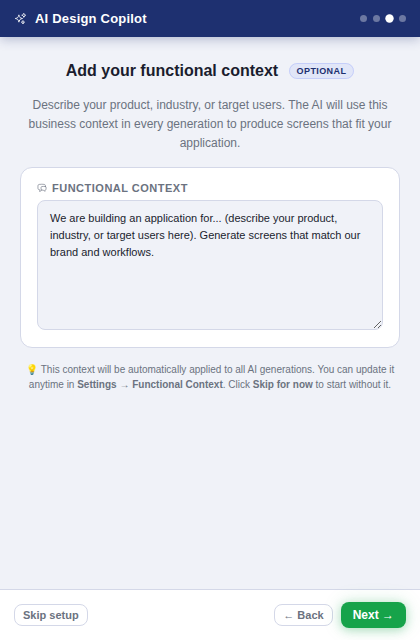
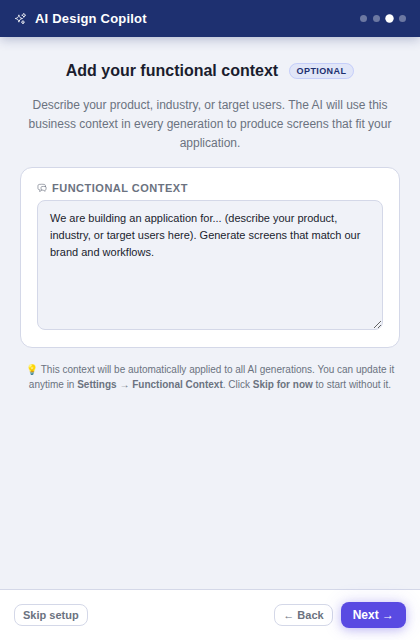
feat: change primary button and user chat bubble color from green to MudBlazor purple (#594AE2)

Changed region(s): [[0.8048, 0.9375, 0.9905, 1.0]]

diff --git a/ui.html b/ui.html
@@ -21,15 +21,15 @@
       --primary-glow: rgba(30, 48, 112, 0.35);
       --border-aura: rgba(30, 48, 112, 0.18);
 
-      /* ── Action colour (green) – primary CTA buttons only ─────── */
-      --action: #16a34a;
-      --action-hover: #15803d;
+      /* ── Action colour (purple / MudBlazor) – primary CTA buttons only ─ */
+      --action: #594AE2;
+      --action-hover: #4a3db5;
       --action-text: #ffffff;
-      --action-glow: rgba(22, 163, 74, 0.35);
+      --action-glow: rgba(89, 74, 226, 0.35);
 
       --text: #1a1d2e;
       --text-muted: #6b7280;
-      --user-bubble: #1e3070;
+      --user-bubble: #594AE2;
       --ai-bubble: #eef1fb;
       --ai-text: #1a1d2e;
       --drop-zone-active-bg: #e8ecf8;
@@ -450,7 +450,7 @@
       align-self: flex-end;
       background: var(--user-bubble);
       border-bottom-right-radius: 3px;
-      box-shadow: 0 2px 10px rgba(30, 48, 112, 0.25), 0 0 20px rgba(30, 48, 112, 0.12);
+      box-shadow: 0 2px 10px rgba(89, 74, 226, 0.25), 0 0 20px rgba(89, 74, 226, 0.12);
     }
     .chat-bubble--user .chat-label { color: rgba(255,255,255,0.65); }
     .chat-bubble--user .chat-text  { color: #ffffff; }
@@ -656,11 +656,11 @@
     .btn--primary {
       background: var(--action);
       color: var(--action-text);
-      box-shadow: 0 2px 10px rgba(22, 163, 74, 0.30), 0 0 20px rgba(22, 163, 74, 0.15);
+      box-shadow: 0 2px 10px rgba(89, 74, 226, 0.30), 0 0 20px rgba(89, 74, 226, 0.15);
     }
     .btn--primary:hover:not(:disabled) {
       background: var(--action-hover);
-      box-shadow: 0 4px 16px rgba(22, 163, 74, 0.40), 0 0 28px rgba(22, 163, 74, 0.20);
+      box-shadow: 0 4px 16px rgba(89, 74, 226, 0.40), 0 0 28px rgba(89, 74, 226, 0.20);
     }
     .btn--primary:disabled { opacity: 0.55; cursor: not-allowed; box-shadow: none; }
     #generate-btn #generate-icon { font-size: 11px; }
